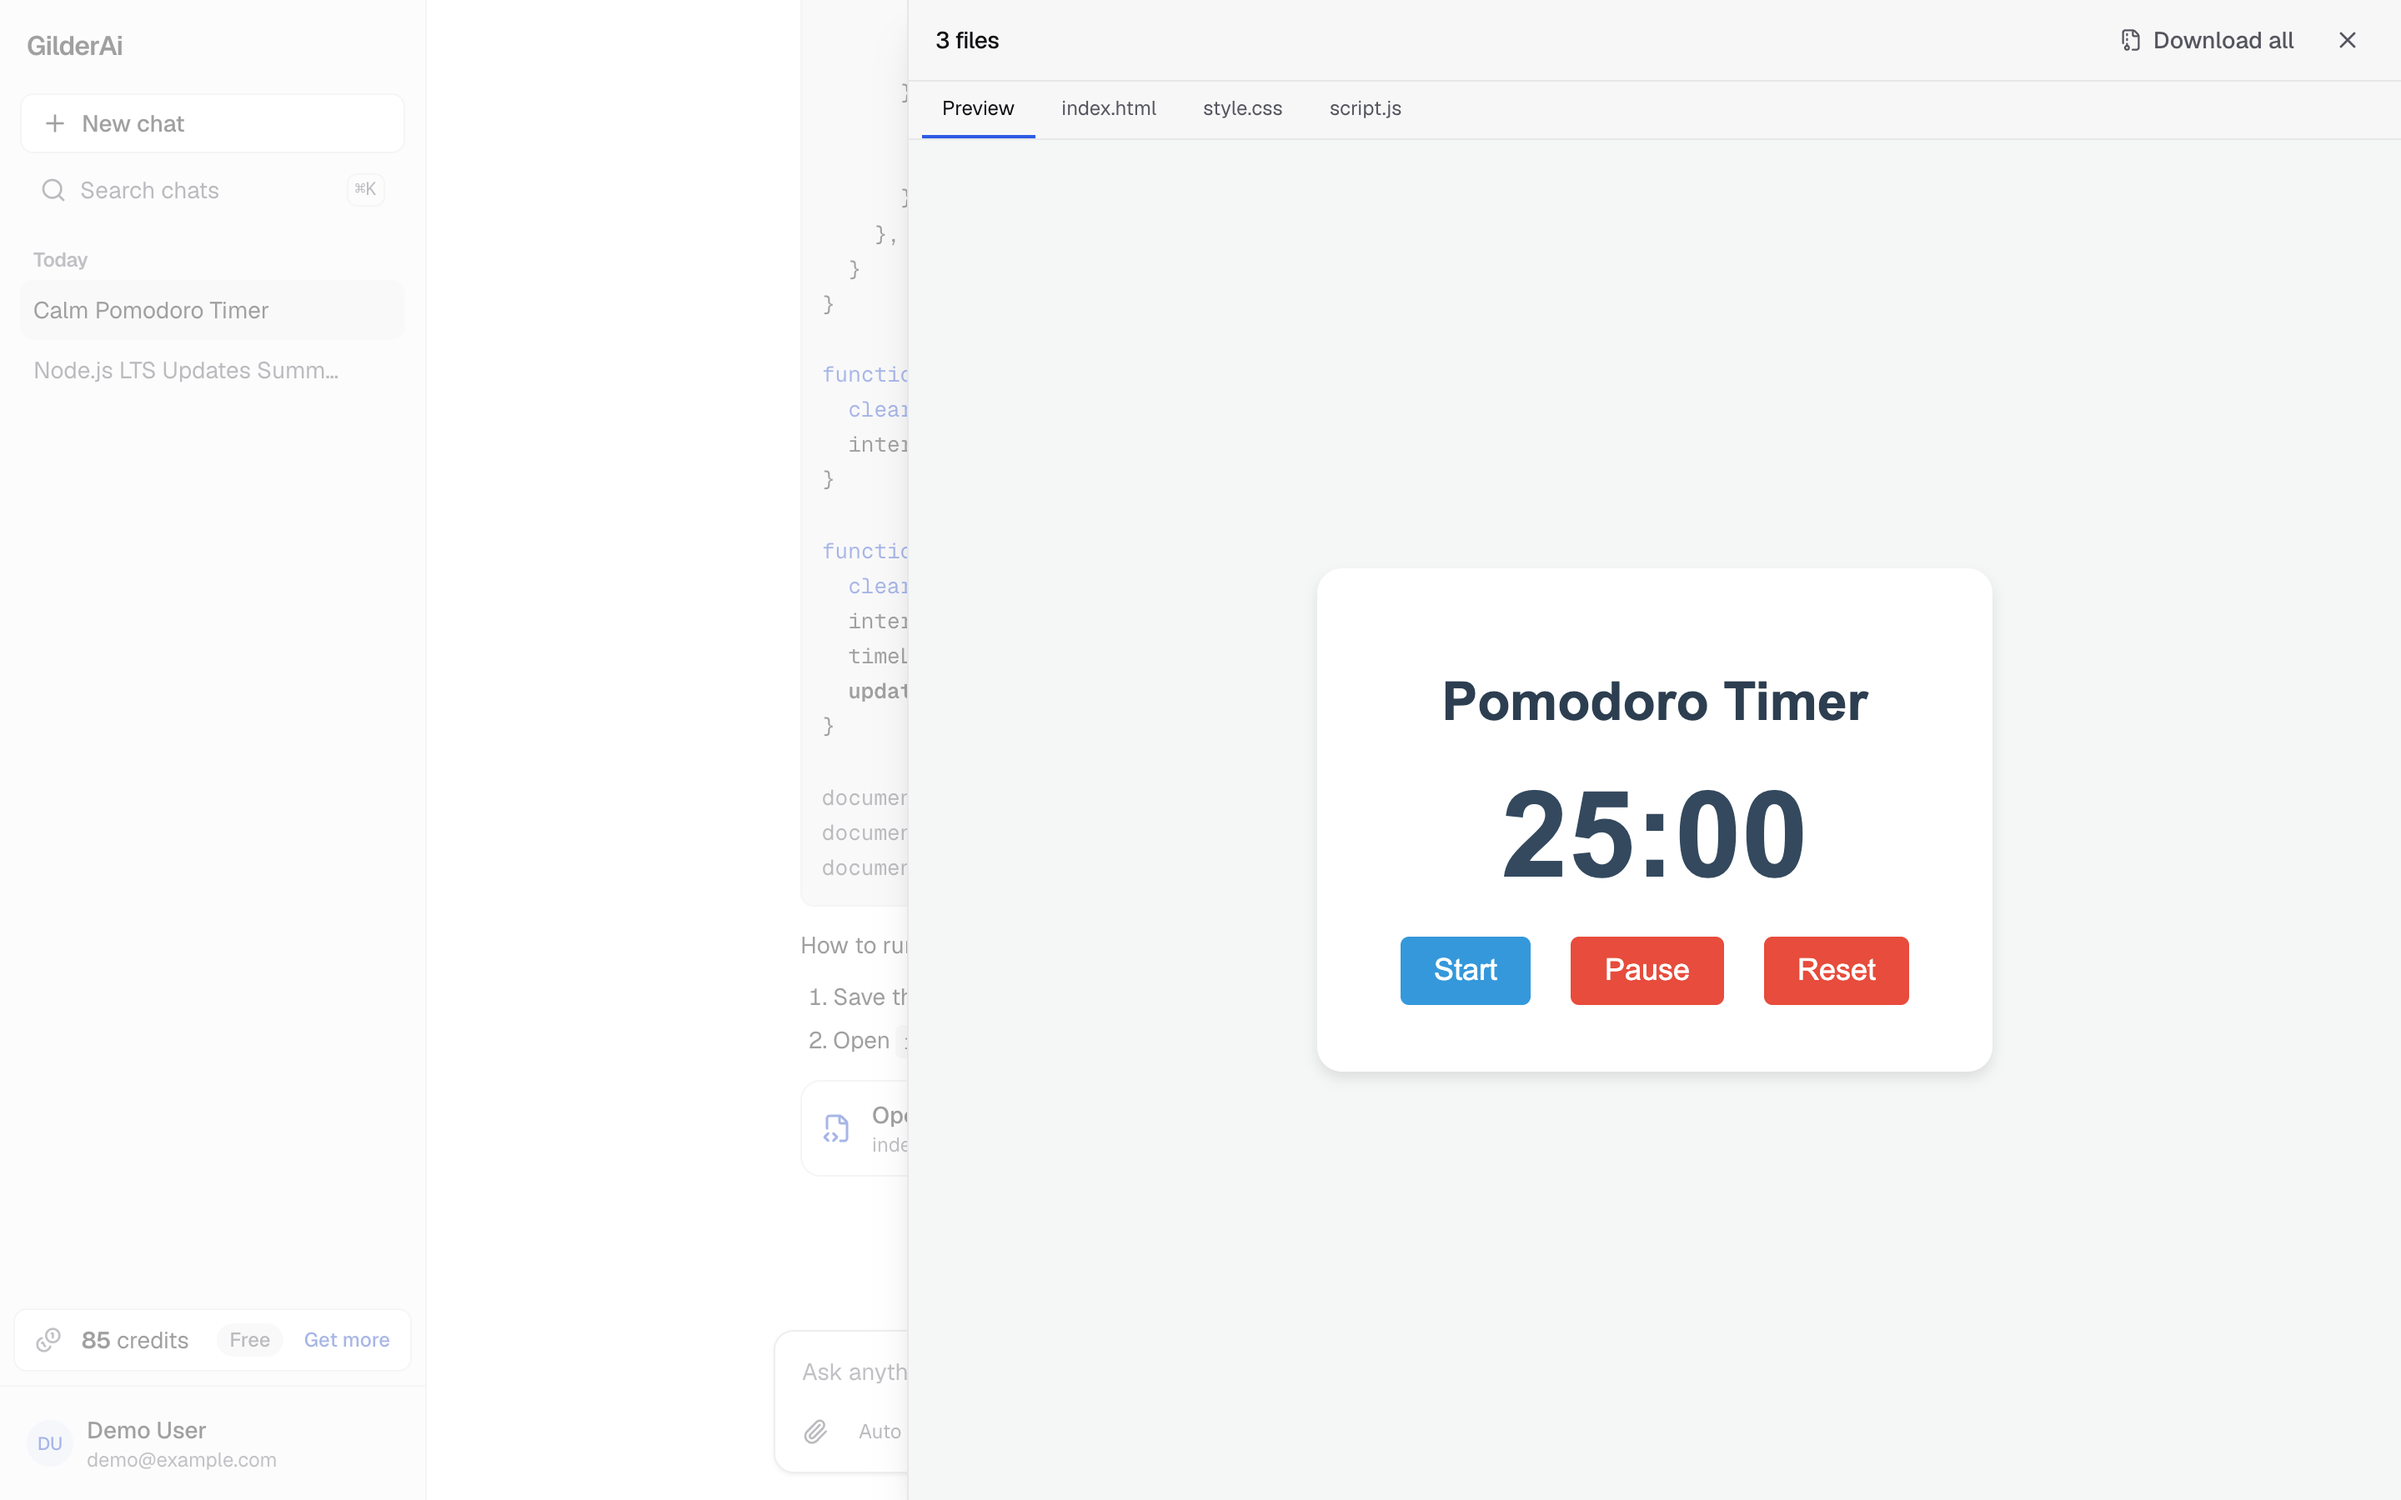
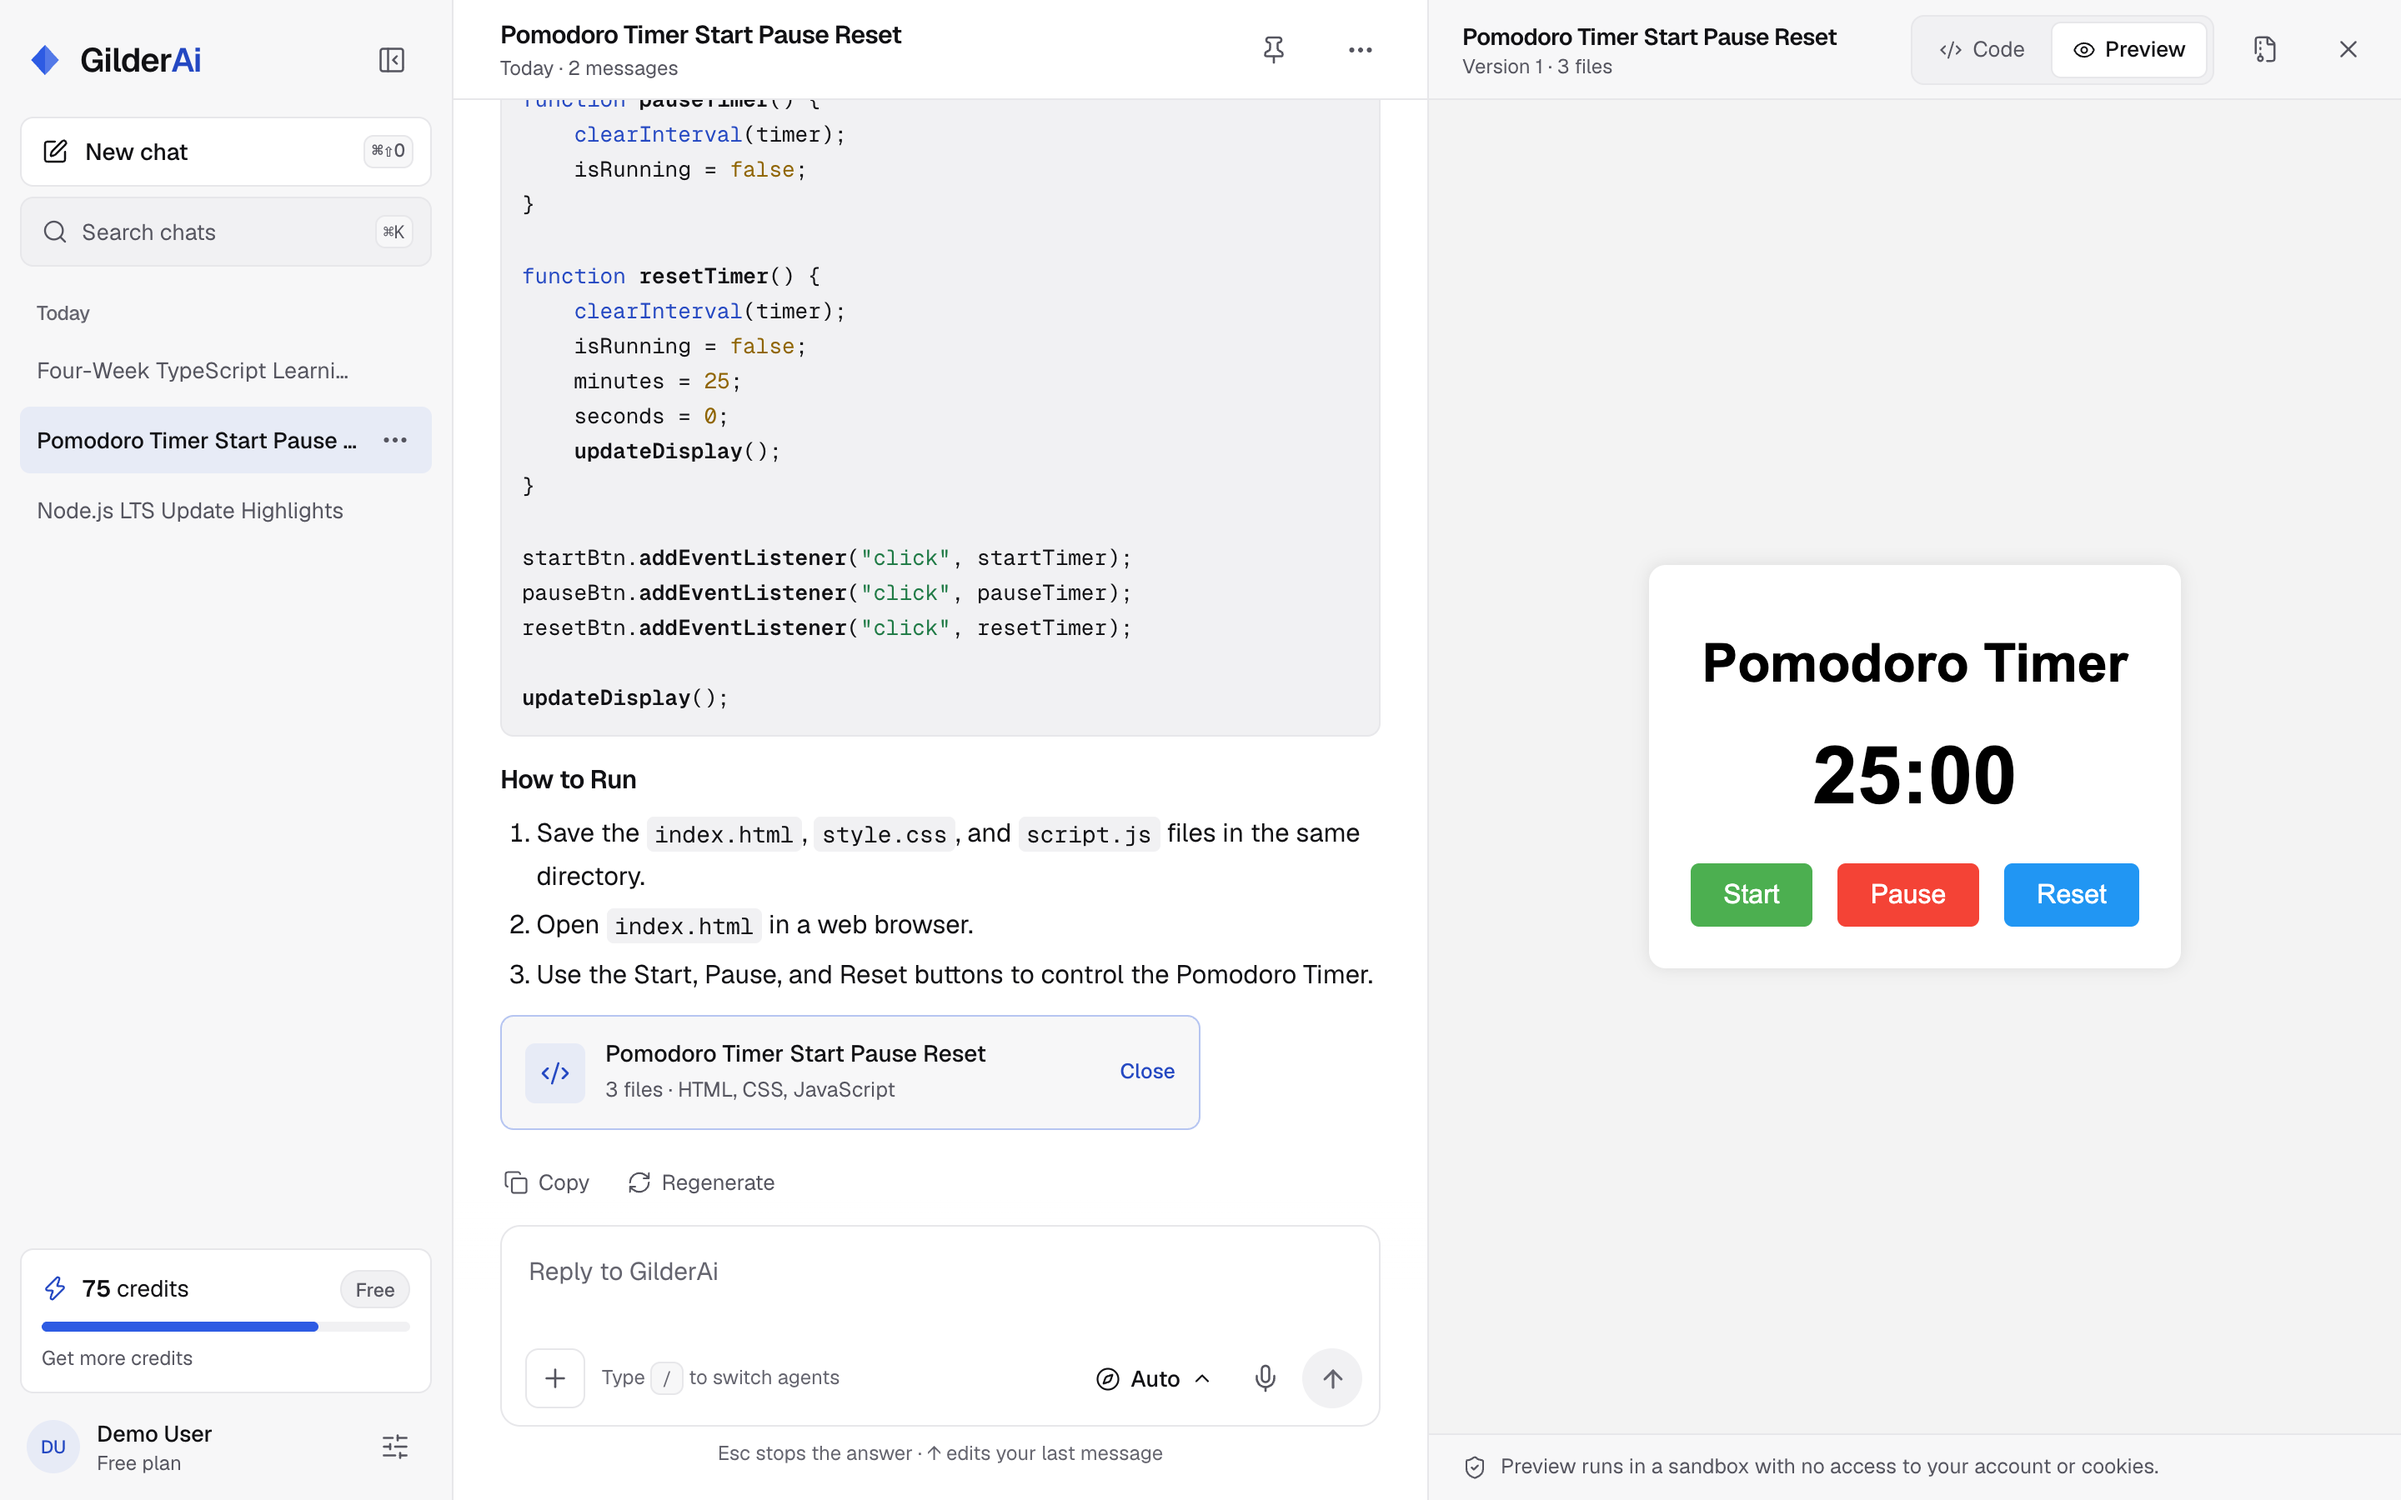
Refresh the README screenshots and demo for the new design

diff --git a/README.md b/README.md
@@ -7,23 +7,26 @@ A multi-agent AI workspace. One chat interface sends each request to the right s
 ## Features
 
 - **Auto-routing across 8 agents.** A small, fast model picks the agent for each message, or you choose one from the menu or with a shortcut: `/search`, `/code`, `/pdf`, `/slides`, `/image`.
-- **Streaming answers** with stop, regenerate and edit-and-resend. A stop works even when the answer is being written by another server instance.
-- **Web search** answers with numbered, clickable sources.
-- **Code projects** split into files, with a sandboxed live preview, copy and download as a zip.
+- **Streaming answers** with stop, regenerate and edit-and-resend. A stop works even when the answer is being written by another server instance. Each answer shows its agent, what it cost and how long it took.
+- **Web search** answers with source cards and numbered citations.
+- **Code projects** split into files, in a panel beside the chat with a sandboxed live preview, copy and download as a zip.
 - **PDF, slide and image generation** with live progress. The model fills a checked outline and the server draws the file, so an answer can't put scripts or links into it.
 - **Questions about your PDFs** with page citations, and questions about images.
 - **Credits** reserved before each answer and settled afterwards, backed by a ledger. Plans can be bought through Razorpay (test mode).
-- **Usage dashboard**, chat search (⌘K), pin and rename, light and dark themes, and a phone layout.
+- **Usage dashboard** (credits per day and by agent, time to first token) and printable payment receipts.
+- **Voice input**, chat search (⌘K), pin and rename, light and dark themes, and a phone layout.
 
 ## Screenshots
 
-| Web search with sources                                            | Code with a live preview                                                   |
-| ------------------------------------------------------------------ | -------------------------------------------------------------------------- |
-| ![A web search answer with sources](.github/assets/search.png)     | ![The file panel showing a live preview](.github/assets/code-preview.png)  |
-| **Dark theme**                                                     | **Usage**                                                                  |
-| ![The same chat in the dark theme](.github/assets/search-dark.png) | ![Credits per day and by agent](.github/assets/usage.png)                  |
-| **Billing (test mode)**                                            | **On a phone**                                                             |
-| ![Plans and the current balance](.github/assets/billing.png)       | <img src=".github/assets/phone.png" alt="The chat on a phone" width="260"> |
+| New chat                                                                              | Web search with sources                                                          |
+| ------------------------------------------------------------------------------------- | -------------------------------------------------------------------------------- |
+| ![The new-chat page with a greeting and suggestions](.github/assets/home.png)         | ![A web search answer with source cards](.github/assets/search.png)              |
+| **Code with a live preview**                                                          | **Generated PDF**                                                                |
+| ![The code panel beside the chat, showing a preview](.github/assets/code-preview.png) | ![A PDF answer with its file card](.github/assets/documents.png)                 |
+| **Dark theme**                                                                        | **Usage**                                                                        |
+| ![The same chat in the dark theme](.github/assets/search-dark.png)                    | ![Credits per day, spend by agent and recent activity](.github/assets/usage.png) |
+| **Billing (test mode)**                                                               | **On a phone**                                                                   |
+| ![Plans, costs and the current balance](.github/assets/billing.png)                   | <img src=".github/assets/phone.png" alt="The chat on a phone" width="260">       |
 
 ## How it works
 
